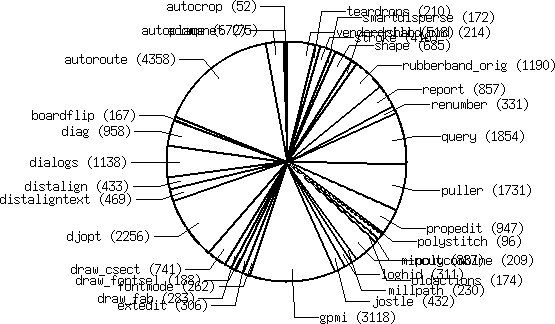
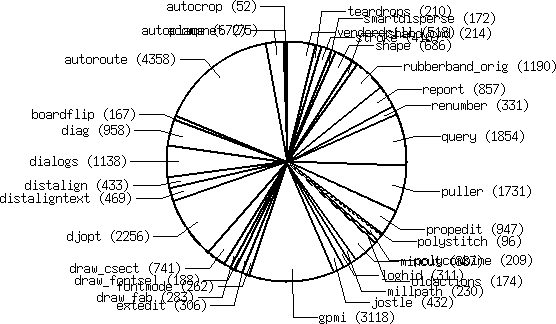
[doc] -Update: mods3 for marking more plugins stable
git-svn-id: svn://repo.hu/librnd/trunk@16919 1d61de99-560f-4dba-8957-1e505d42358b

diff --git a/doc/developer/mods3/index.html b/doc/developer/mods3/index.html
@@ -138,7 +138,7 @@ Below is a table with the summary of core plugins.
 <td> feature
 <td> Various board optimization algorithms.
 <tr><th align=left>draw_csect<td>741
-<td  > WIP
+<td bgcolor="lightgreen" > works
 <td bgcolor="red"> disable
 <td> feature
 <td> Draw cross section and layer map.
@@ -477,11 +477,6 @@ Below is a table with the summary of core plugins.
 <td bgcolor="red"> disable
 <td> feature
 <td> Random collection of old/obsolete actions. Bell(): audible feedback, DumpLibrary(): print footprint library on stdout, a set of debug actions useful for writing pcb scripts: Debug(), DebugXY(), Return(). Old plugin actions to toggle or set settings that are now accessible via the unified config system (vendordrill, djopt)
-<tr><th align=left>pcblib<td>1407
-<td  >
-<td >
-<td>
-<td>
 <tr><th align=left>polycombine<td>209
 <td bgcolor="lightgreen" > works
 <td bgcolor="lightgreen"> buildin
@@ -527,8 +522,8 @@ Below is a table with the summary of core plugins.
 <td bgcolor="lightgreen"> buildin
 <td> feature
 <td> vi-like command shorthands (1..3 character long commands)
-<tr><th align=left>shape<td>685
-<td  > WIP
+<tr><th align=left>shape<td>686
+<td bgcolor="lightgreen" > works
 <td bgcolor="lightgreen"> buildin
 <td> feature
 <td> Generate objects of regular shape (regular polygons, circle, round rect)
